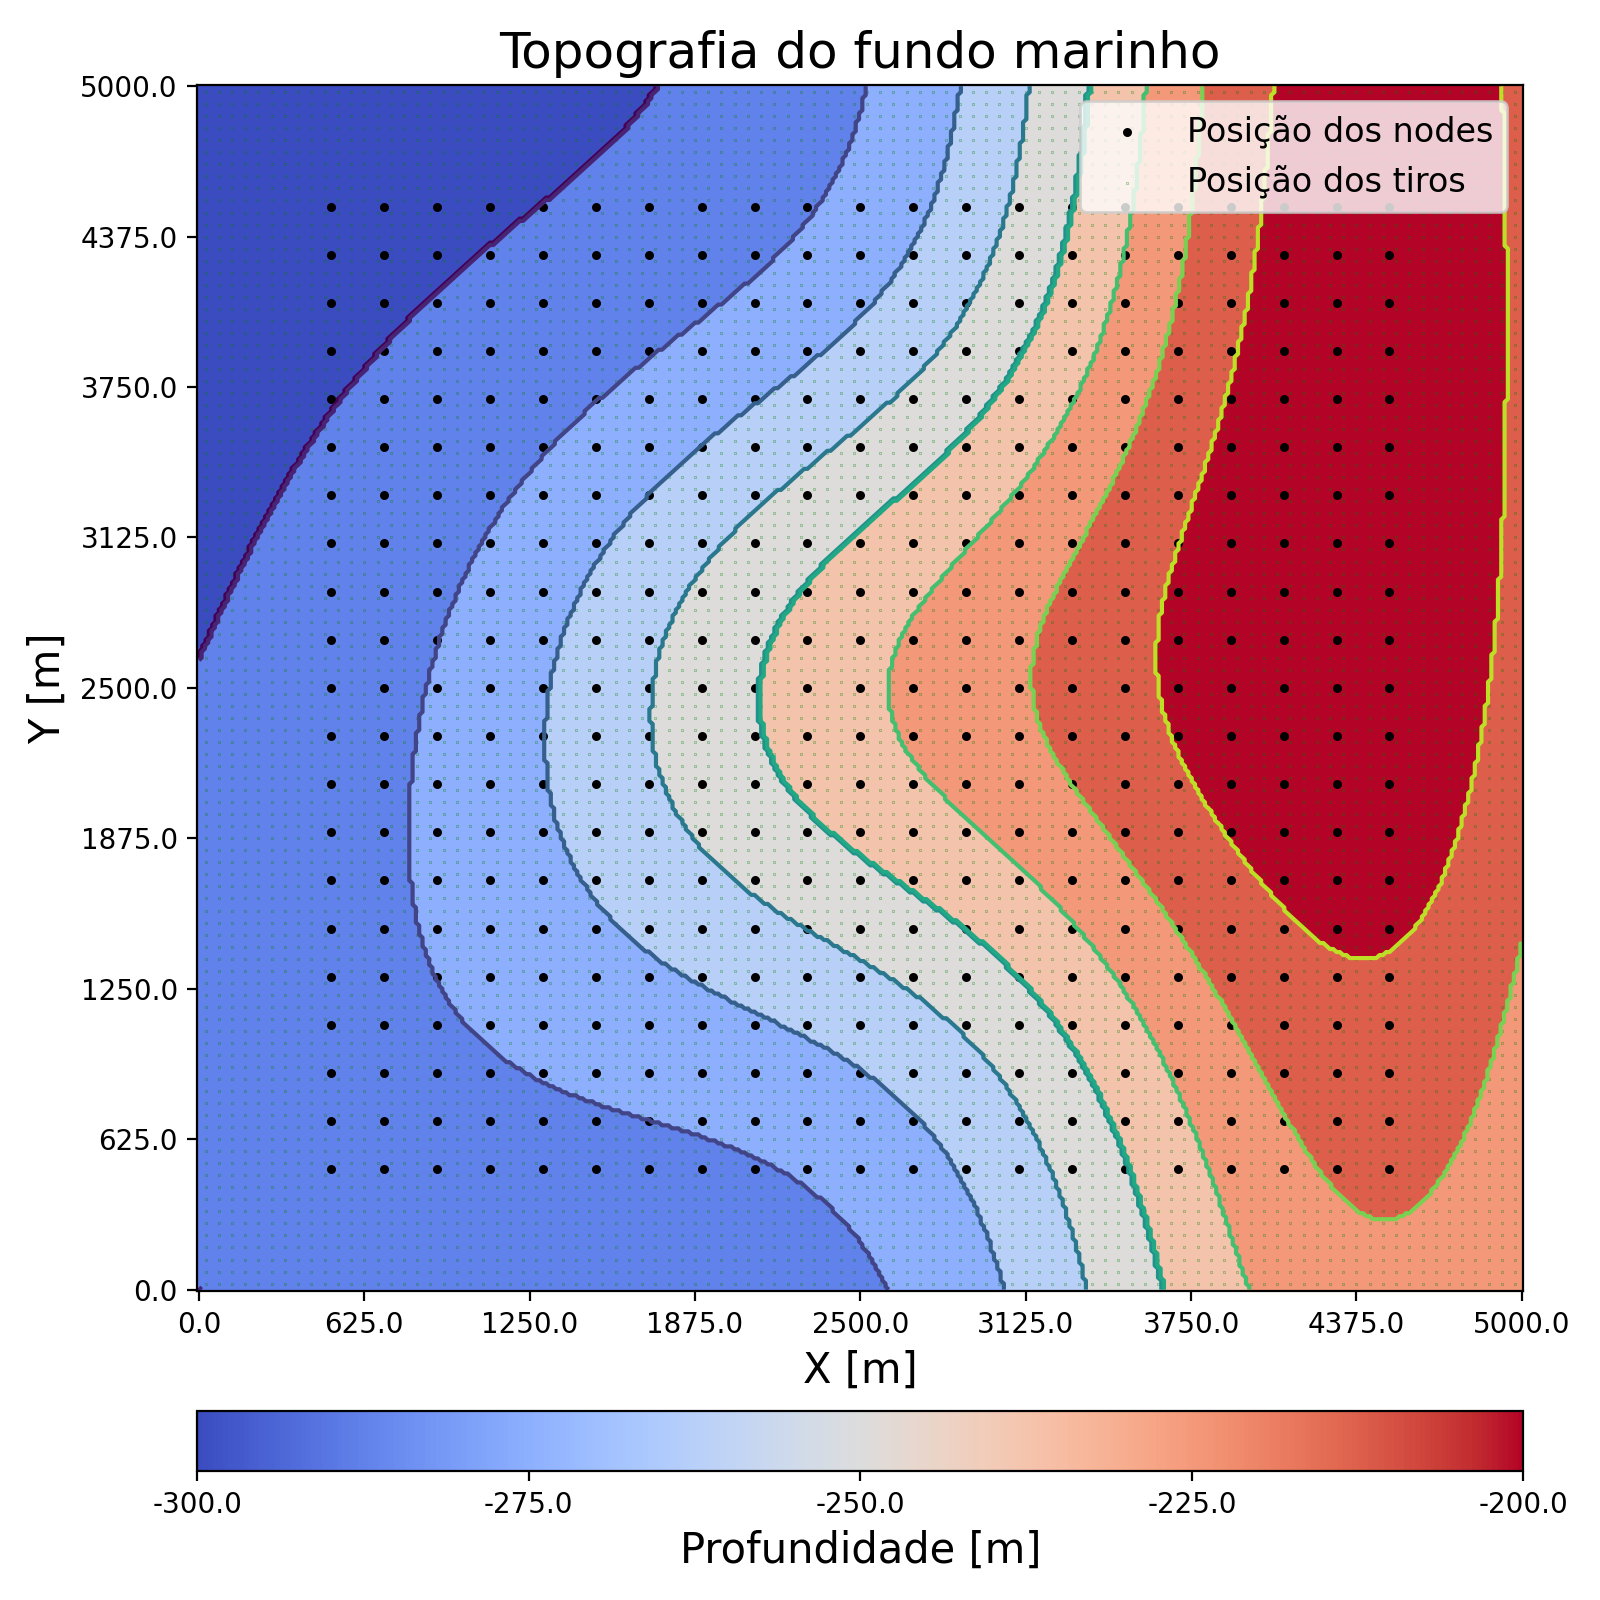
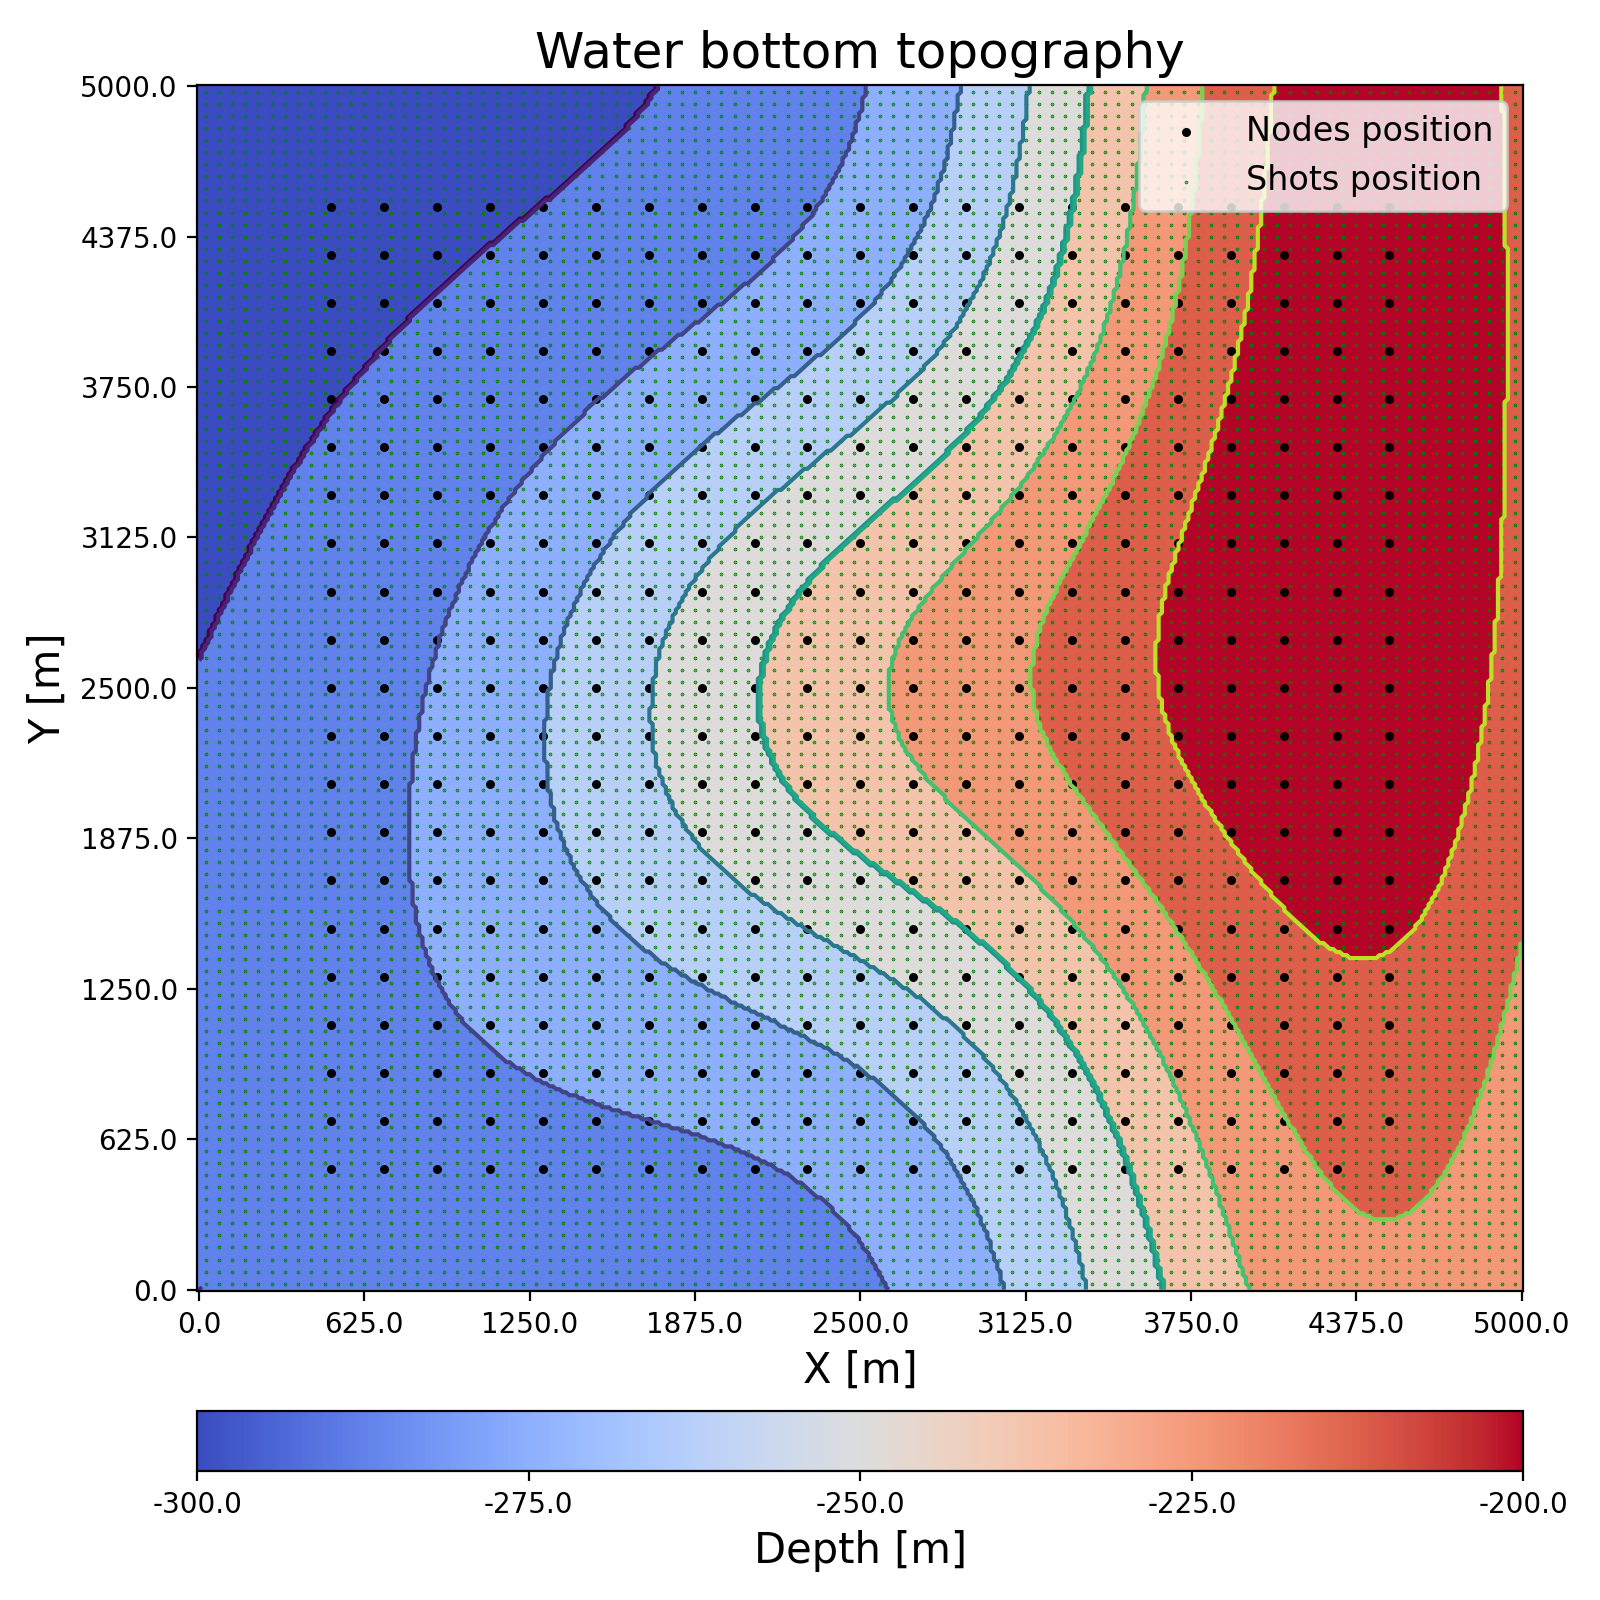
generating final images

Changed region(s): [[0.3125, 0.0, 0.9375, 0.1562], [0.4375, 0.9375, 0.625, 1.0]]

diff --git a/main/analysis/all_functions.py b/main/analysis/all_functions.py
@@ -171,7 +171,7 @@ def createGaussianSurface(nx,ny,dx,dy,A,xc,yc,sigx,sigy):
 
     return surface
 
-def multiBoxPlot(models:np.ndarray, shots:np.ndarray, nodes:np.ndarray, dh:np.ndarray, slices:np.ndarray, subplots:np.ndarray) -> None:
+def multiBoxPlot(models:np.ndarray, shots:np.ndarray, nodes:np.ndarray, dh:float, slices:np.ndarray, subplots:np.ndarray) -> None:
 
     if np.sum(subplots) == 2:
         modelShape = np.array(np.shape(models))
@@ -195,6 +195,27 @@ def multiBoxPlot(models:np.ndarray, shots:np.ndarray, nodes:np.ndarray, dh:np.nd
     px = 1/plt.rcParams['figure.dpi']  
     ticks = np.array([3,7,7], dtype = int)
 
+    line_shot = int(np.sqrt(len(shots[:,0])))
+    line_node = int(np.sqrt(len(nodes[:,0])))
+
+    x_nodes = np.reshape(nodes[:,0], [line_node,line_node], order = "F") 
+    y_nodes = np.reshape(nodes[:,1], [line_node,line_node], order = "F") 
+    z_nodes = np.reshape(nodes[:,2], [line_node,line_node], order = "F")
+
+    for k, line in enumerate(x_nodes[:,0]):
+        if slices[2]*dh < line:
+            x_target = k
+            break
+
+        x_target = line_node-1
+
+    for k, line in enumerate(y_nodes[0,:]):
+        if slices[1]*dh < line:
+            y_target = k
+            break
+
+        y_target = line_node-1
+
     fig = plt.figure(1, figsize=(700*px*subplots[1], 600*px*subplots[0]))
 
     xloc = np.linspace(0,nx-1,ticks[1], dtype = int)
@@ -203,14 +224,14 @@ def multiBoxPlot(models:np.ndarray, shots:np.ndarray, nodes:np.ndarray, dh:np.nd
 
     m2km = 1e-3
 
-    xlab = np.around(xloc * dh[0] * m2km, decimals = 1)
-    ylab = np.around(yloc * dh[1] * m2km, decimals = 1)
-    zlab = np.around(zloc * dh[2] * m2km, decimals = 1)
+    xlab = np.around(xloc * dh * m2km, decimals = 1)
+    ylab = np.around(yloc * dh * m2km, decimals = 1)
+    zlab = np.around(zloc * dh * m2km, decimals = 1)
 
     axes = np.array([[0.75 - x, 0.98 - y      , x, y], 
                      [    0.75, 0.98 - y      , z, y],
                      [0.75 - x, 0.98 - y - z  , x, z],
-                     [0.75 - x, 0.98 - y - 2.5*z, x, z]])
+                     [0.75 - x, 0.98 - y - 1.8*z, x, z]])
 
     xTickDirection = ['out', 'out', 'out']
     yTickDirection = ['out', 'in', 'out']
@@ -248,11 +269,11 @@ def multiBoxPlot(models:np.ndarray, shots:np.ndarray, nodes:np.ndarray, dh:np.nd
             else:
                 ims = [models[ind, slices[0],:,:].T, models[ind,:,slices[2],:].T, models[ind,:,:,slices[1]]]
 
-            xshot = [shots[:,0]/dh[0], shots[:,2]/dh[2], shots[:,0]/dh[0]]
-            yshot = [shots[:,1]/dh[1], shots[:,1]/dh[1], shots[:,2]/dh[2]]
+            xshot = [shots[:,0]/dh, shots[:,2]/dh, shots[:,0]/dh]
+            yshot = [shots[:,1]/dh, shots[:,1]/dh, shots[:,2]/dh]
 
-            xnode = [nodes[:,0]/dh[0], nodes[:,2]/dh[2], nodes[:,0]/dh[0]]
-            ynode = [nodes[:,1]/dh[1], nodes[:,1]/dh[1], nodes[:,2]/dh[2]]
+            xnode = [nodes[:,0]/dh, z_nodes[y_target,:]/dh, x_nodes[:,x_target]/dh]
+            ynode = [nodes[:,1]/dh, y_nodes[y_target,:]/dh, z_nodes[:,x_target]/dh]
 
             for k, axs in enumerate(axes):
 
@@ -283,15 +304,15 @@ def multiBoxPlot(models:np.ndarray, shots:np.ndarray, nodes:np.ndarray, dh:np.nd
                     cax = divider.append_axes("bottom", size="10%", pad=0)
                     cbar = fig.colorbar(mpl.cm.ScalarMappable(norm=norm, cmap=cmap), cax = cax, ticks = np.linspace(vmin*1e-3, vmax*1e-3, 5), orientation = "horizontal")
                     cbar.ax.set_xticklabels(np.around(np.linspace(vmin*1e-3, vmax*1e-3, 5), decimals = 1))
-                    cbar.set_label("Velocidade [km/s]")
+                    cbar.set_label("Velocity [km/s]")
                 
                 # plotting model slices 
                 else:
                     
                     ax.imshow(ims[k], aspect = 'auto', cmap = "Greys", vmin = vmin, vmax = vmax)    
                     
-                    ax.scatter(xshot[k], yshot[k], s = 0.01)
-                    ax.scatter(xnode[k], ynode[k], s = 5.0)
+                    # ax.scatter(xshot[k], yshot[k], s = 0.1)
+                    # ax.scatter(xnode[k], ynode[k], s = 5.0)
 
                     ax.tick_params(direction = xTickDirection[k], axis='x') 
                     ax.tick_params(direction = yTickDirection[k], axis='y') 
@@ -312,55 +333,3 @@ def multiBoxPlot(models:np.ndarray, shots:np.ndarray, nodes:np.ndarray, dh:np.nd
                        ax.invert_yaxis()
     
     return None
-
-def irls(A, b, tolr, tolx, p, maxiter):
-    ''' 
-    Solve for the 1-norm solution
-
-        Input Parameters:
-            A       - Matrix of the system of equations.
-            b       - Right hand side of the system of equations.
-            tolr    - Tolerance below which residuals are ignored.
-            tolx    - Stopping tolerance.  Stop when (norm(newx-x)/(1+norm(x)) < tolx)
-            p       - Specifies which p-norm to use (most often, p=1.)
-            maxiter - Limit on number of iterations of IRLS
-
-        Output Parameters:
-            x - Approximate L_p solution.
-    '''
-
-    # Find the size of the matrix A.
-    [m,n] = np.shape(A)
-
-    # Start the first iteration with R=I, and x=A\b (the least squares solution)
-    R = np.eye(m)
-    x = solve(A.T @ A, A.T @ b)
-
-    #  Now loop up to maxiter iterations
-    iter = 1
-    while iter <= maxiter:
-        
-        iter += 1
-
-        # compute the current residual 
-        r = A @ x - b
-
-        # for each row adjust the weighting factor r based on the residual
-        for i in range(m):
-            if np.abs(r[i] < tolr):
-                r[i] = np.abs(tolr)**(p - 2)
-            else:
-                r[i] = np.abs(r[i])**(p - 2)
-
-        # insert the weighting factors into R
-        R = np.diag(r)
-
-        # find the solution to the weighted problem
-        newx = solve(A.T @ R @ A, A.T @ R @ b)
-
-        # check for convergence
-        if norm(newx - x) / (1 + norm(x)) < tolx:
-            x = newx
-            return x
-        else:
-            x = newx

diff --git a/main/analysis/2_experiment_config.py b/main/analysis/2_experiment_config.py
@@ -78,10 +78,10 @@ smax = np.max(-dz*waterBottom)
 
 ax.contour(-dz*waterBottom, levels = 10)
 ax.imshow(-dz*waterBottom, aspect = "auto", cmap=cmap)
-ax.scatter(node_x/dx, node_y/dy, c = "black", s = 5.0, label = "Posição dos nodes")
-ax.scatter(shot_x/dx, shot_y/dy, c = "green", s = 0.01, label = "Posição dos tiros")
+ax.scatter(node_x/dx, node_y/dy, c = "black", s = 5.0, label = "Nodes position")
+ax.scatter(shot_x/dx, shot_y/dy, c = "green", s = 0.1, label = "Shots position")
 
-ax.set_title("Topografia do fundo marinho", fontsize = 18)
+ax.set_title("Water bottom topography", fontsize = 18)
 ax.set_xlabel("X [m]", fontsize = 15)
 ax.set_ylabel("Y [m]", fontsize = 15)
 ax.invert_yaxis()
@@ -97,7 +97,7 @@ divider = make_axes_locatable(ax)
 cax = divider.append_axes("bottom", size="5%", pad=0.6)
 cbar = fig.colorbar(mpl.cm.ScalarMappable(norm=norm, cmap=cmap), cax = cax, ticks = np.linspace(smin, smax, 5), orientation = "horizontal")
 cbar.ax.set_xticklabels(np.around(np.linspace(smin, smax, 5), decimals = 1))
-cbar.set_label("Profundidade [m]", fontsize = 15)
+cbar.set_label("Depth [m]", fontsize = 15)
 
 ax.legend(loc = "upper right", fontsize = 12)
 
@@ -137,8 +137,8 @@ smax = np.max(-dz*surface)
 
 ax.contour(-dz*surface, levels = 10)
 ax.imshow(-dz*surface, aspect = "auto", cmap=cmap)
-ax.scatter(node_x/dx, node_y/dy, c = "black", s = 5.0, label = "Posição dos nodes")
-ax.scatter(shot_x/dx, shot_y/dy, c = "green", s = 0.01, label = "Posição dos tiros")
+ax.scatter(node_x/dx, node_y/dy, c = "black", s = 5.0, label = "Nodes position")
+ax.scatter(shot_x/dx, shot_y/dy, c = "green", s = 0.1, label = "Shots position")
 
 ax.set_xticks(np.linspace(0,nx-1,9, dtype = int))
 ax.set_xticklabels(np.around(np.linspace(0,nx-1,9)*dx, decimals = 1))
@@ -148,7 +148,7 @@ ax.set_yticklabels(np.around(np.linspace(0,ny-1,9)*dy, decimals = 1))
 
 ax.invert_yaxis()
 
-ax.set_title("Topografia da anomalia", fontsize = 18)
+ax.set_title("Target surface topography", fontsize = 18)
 ax.set_xlabel("X [m]", fontsize = 15)
 ax.set_ylabel("Y [m]", fontsize = 15)
 
@@ -157,7 +157,7 @@ divider = make_axes_locatable(ax)
 cax = divider.append_axes("bottom", size="5%", pad=0.6)
 cbar = fig.colorbar(mpl.cm.ScalarMappable(norm=norm, cmap=cmap), cax = cax, ticks = np.linspace(smin, smax, 5), orientation = "horizontal")
 cbar.ax.set_xticklabels(np.around(np.linspace(smin, smax, 5), decimals = 1))
-cbar.set_label("Profundidade [m]", fontsize = 15)
+cbar.set_label("Depth [m]", fontsize = 15)
 ax.legend(loc = "upper right", fontsize = 12)
 
 plt.tight_layout()
@@ -195,7 +195,7 @@ models = np.zeros((2,nz,nx,ny))
 models[0,:,:,:] = model
 models[1,:,:,:] = initModel
 
-dh = np.array([dx, dy, dz])
+dh = dx
 
 shots = np.zeros((shot_all, 3))
 nodes = np.zeros((node_all, 3))
@@ -208,7 +208,7 @@ nodes[:, 0] = node_x
 nodes[:, 1] = node_y
 nodes[:, 2] = node_z
 
-slices = np.array([int(nz / 2), int(ny / 2), int(nx / 2)], dtype = int) # [xy, zx, zy]
+slices = np.array([int(3*nz / 5), int(ny / 2), int(nx / 2)], dtype = int) # [xy, zx, zy]
 subplots = np.array([1, 2], dtype = int)
 
 multiBoxPlot(models, shots, nodes, dh, slices, subplots)

diff --git a/main/analysis/4_tomography_study.py b/main/analysis/4_tomography_study.py
@@ -1,0 +1,93 @@
+import numpy as np
+import matplotlib.pyplot as plt
+
+from all_functions import *
+
+from scipy.ndimage import gaussian_filter
+
+# General recovered models plot 
+# Figure with 12 subfigures 
+
+shots = np.loadtxt("../../inputs/geometry/shots.txt", delimiter=",")
+nodes = np.loadtxt("../../inputs/geometry/nodes.txt", delimiter=",")
+
+trueModel = readBinaryVolume(105,401,401,f"../../inputs/models/trueModel_105x401x401_12.5m.bin")
+trueModel = trueModel[::2,::2,::2]
+
+nz = 53
+nx = 201
+ny = 201 
+
+dh = 25
+
+initModel = readBinaryVolume(nz,nx,ny,f"../../inputs/models/initModel_{nz}x{nx}x{ny}_{dh}m.bin")
+
+pod_models = np.zeros((3,nz,nx,ny))
+pod_models[0,:,:] = initModel
+pod_models[-1,:,:] = trueModel
+
+fim_models =  np.zeros((3,nz,nx,ny))
+fim_models[0,:,:] = initModel
+fim_models[-1,:,:] = trueModel
+
+fsm_models =  np.zeros((3,nz,nx,ny))
+fsm_models[0,:,:] = initModel
+fsm_models[-1,:,:] = trueModel
+
+pod_models[1,:,:,:] = readBinaryVolume(nz,nx,ny,f"../../outputs/recoveredModels/pod_estimatedModel_iteration_10.bin")
+pod_models[1,:,:,:] = 1.0 / gaussian_filter(1.0 / pod_models[1,:,:,:], 3.0)
+ 
+fim_models[1,:,:,:] = readBinaryVolume(nz,nx,ny,f"../../outputs/recoveredModels/fim_estimatedModel_iteration_10.bin")
+fim_models[1,:,:,:] = 1.0 / gaussian_filter(1.0 / fim_models[1,:,:,:], 3.0)
+
+fsm_models[1,:,:,:] = readBinaryVolume(nz,nx,ny,f"../../outputs/recoveredModels/fsm_estimatedModel_iteration_10.bin")
+fsm_models[1,:,:,:] = 1.0 / gaussian_filter(1.0 / fsm_models[1,:,:,:], 3.0)
+
+slices = np.array([31,100,100]) # XY, ZX, ZY
+subplots = np.array([1,3])
+
+multiBoxPlot(pod_models,shots,nodes,dh,slices,subplots)
+plt.savefig("../../figures/podvin_result.png", dpi = 200)
+plt.show()
+
+multiBoxPlot(fim_models,shots,nodes,dh,slices,subplots)
+plt.savefig("../../figures/jeong_result.png", dpi = 200)
+plt.show()
+
+multiBoxPlot(fsm_models,shots,nodes,dh,slices,subplots)
+plt.savefig("../../figures/noble_result.png", dpi = 200)
+plt.show()
+
+#---------------------------------------------------------------------------------------------
+
+
+
+
+
+
+
+#---------------------------------------------------------------------------------------------
+
+pod_convergency = np.loadtxt("../../outputs/convergency/pod_convergency.txt")
+fim_convergency = np.loadtxt("../../outputs/convergency/fim_convergency.txt")
+fsm_convergency = np.loadtxt("../../outputs/convergency/fsm_convergency.txt")
+
+plt.figure(4, figsize = (10, 5))
+plt.plot(pod_convergency, "-ob", label = "Classical kernel")
+plt.plot(fim_convergency, "-oy", label = "Fast iterative kernel")
+plt.plot(fsm_convergency, "-og", label = "Fast sweeping kernel")
+
+plt.title("Convergence", fontsize = 20)
+plt.xlabel("Iterations", fontsize = 15)
+plt.ylabel(r"$||d_{obs} - d_{cal}||^2_2$", fontsize = 15)
+
+plt.ylim([0,200])
+
+plt.legend(loc = "upper right", fontsize = 15)
+plt.tight_layout()
+plt.savefig("../../figures/convergencia.png", dpi = 200)
+plt.show()
+
+
+
+

diff --git a/src/eikonal/eikonal.cpp b/src/eikonal/eikonal.cpp
@@ -1851,7 +1851,7 @@ void Eikonal::jeongFIM()
             {
                 if (K[index] == 1.0f)
                 {
-                    int k = (int) (index / (nxx*nzz));             // y direction
+                    int k = (int) (index / (nxx*nzz));         // y direction
                     int j = (int) (index - k*nxx*nzz) / nzz;   // x direction
                     int i = (int) (index - j*nzz - k*nxx*nzz); // z direction
 
@@ -1859,11 +1859,10 @@ void Eikonal::jeongFIM()
                     {
                         float h = dx;
                         float a, b, c, tmp, Tijk;
-                        float tlag = - 0.4f * h * S[sId];
 
-                        a = min(T[index - nzz],T[index + nzz]);                 // Tx min        
+                        a = min(T[index - nzz],T[index + nzz]);         // Tx min        
                         b = min(T[index - nxx*nzz],T[index + nxx*nzz]); // Ty min        
-                        c = min(T[index - 1],T[index + 1]);                             // Tz min        
+                        c = min(T[index - 1],T[index + 1]);             // Tz min        
 
                         // a,b,c <------- sort(Tx,Ty,Tz), where a > b > c
                         if (a < b) {tmp = a; a = b; b = tmp;}

diff --git a/main/analysis/3_automatic_picking.py b/main/analysis/3_automatic_picking.py
@@ -2,7 +2,7 @@ import timeit
 import numpy as np
 import matplotlib.pyplot as plt
 
-from all_functions import readBinaryMatrix, readBinaryArray, irls
+from all_functions import readBinaryMatrix, readBinaryArray
 
 from scipy.signal import savgol_filter
 from scipy.ndimage import median_filter
@@ -49,8 +49,8 @@ updated_nt = 2.80
 
 times = slice(int(tlag/dt), int((tlag+tcut)/dt))
 
-tloc = np.linspace(0, updated_nt-1, 11, dtype = int)
-tlab = np.around(np.linspace(0, updated_nt-1, 11) * dt, decimals = 1)
+tloc = np.linspace(0, int(updated_nt/dt)-1, 11, dtype = int)
+tlab = np.around(tloc * dt, decimals = 1)
 
 xloc = np.linspace(0, traces-1, 11, dtype = int)
 xlab = np.linspace(0, traces, 11, dtype = int)
@@ -68,7 +68,10 @@ for node in range(nodes_all):
     plt.imshow(seismic, aspect = "auto", cmap = "Greys", vmin = -scale, vmax = scale)
     plt.plot(rawPicks_all/dt, "o")
     plt.plot(output_picks/dt, "o")
-    plt.title(f"{node+1}")
+    plt.title(f"Picked seismogram for node {node+1}", fontsize= 18)
+    plt.ylabel("Time [s]", fontsize = 15)
+    plt.xlabel("Trace index", fontsize = 15)
+    plt.yticks(tloc,tlab)
     plt.xlim([0, shots_all])
     plt.tight_layout()
     plt.show()
